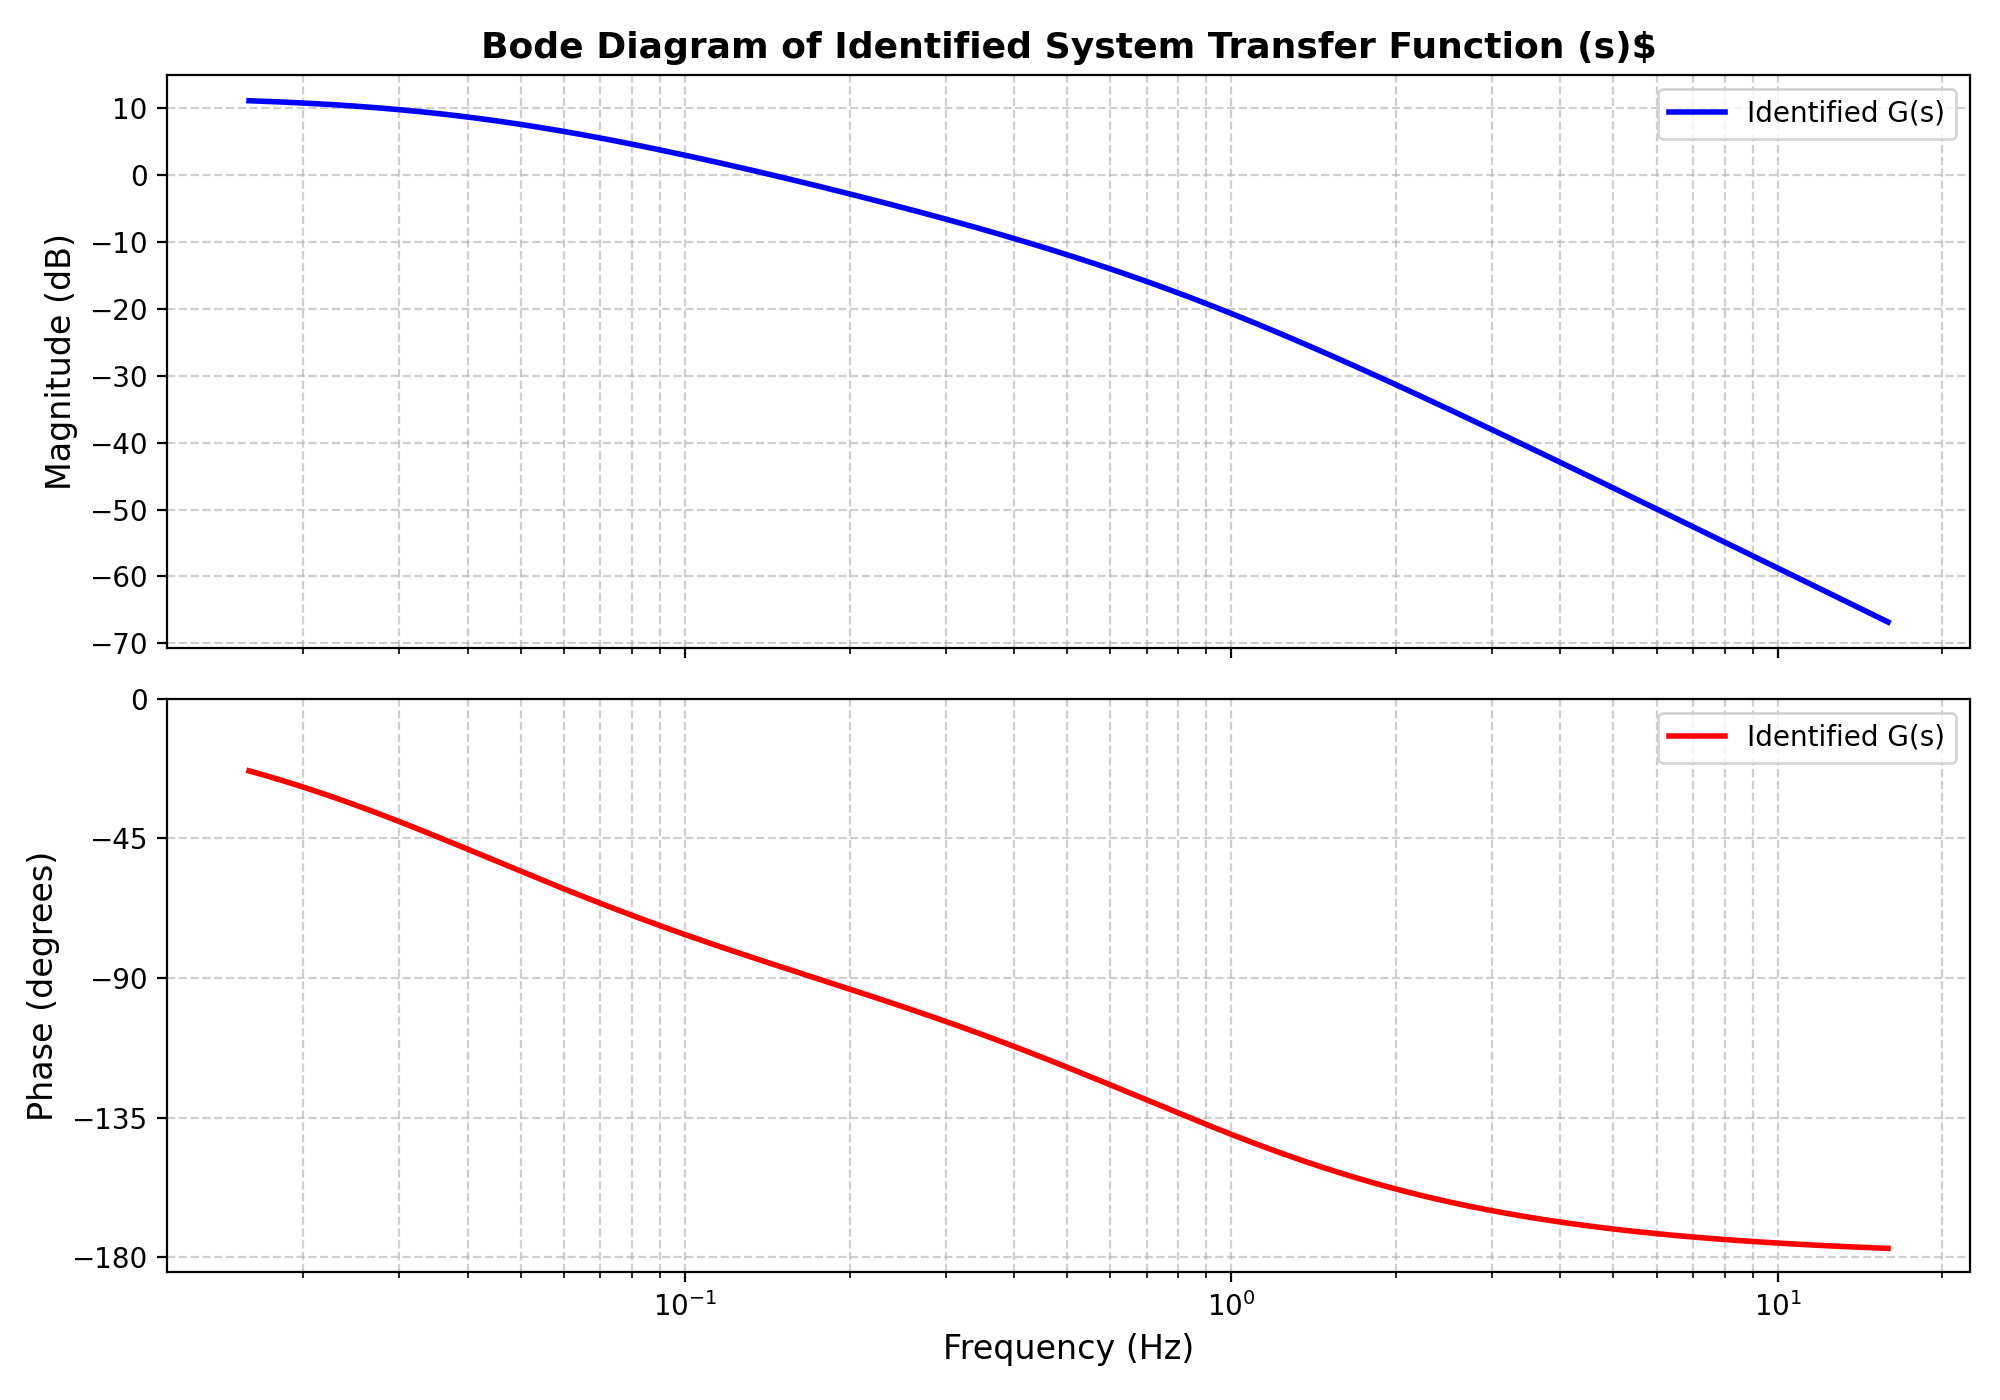
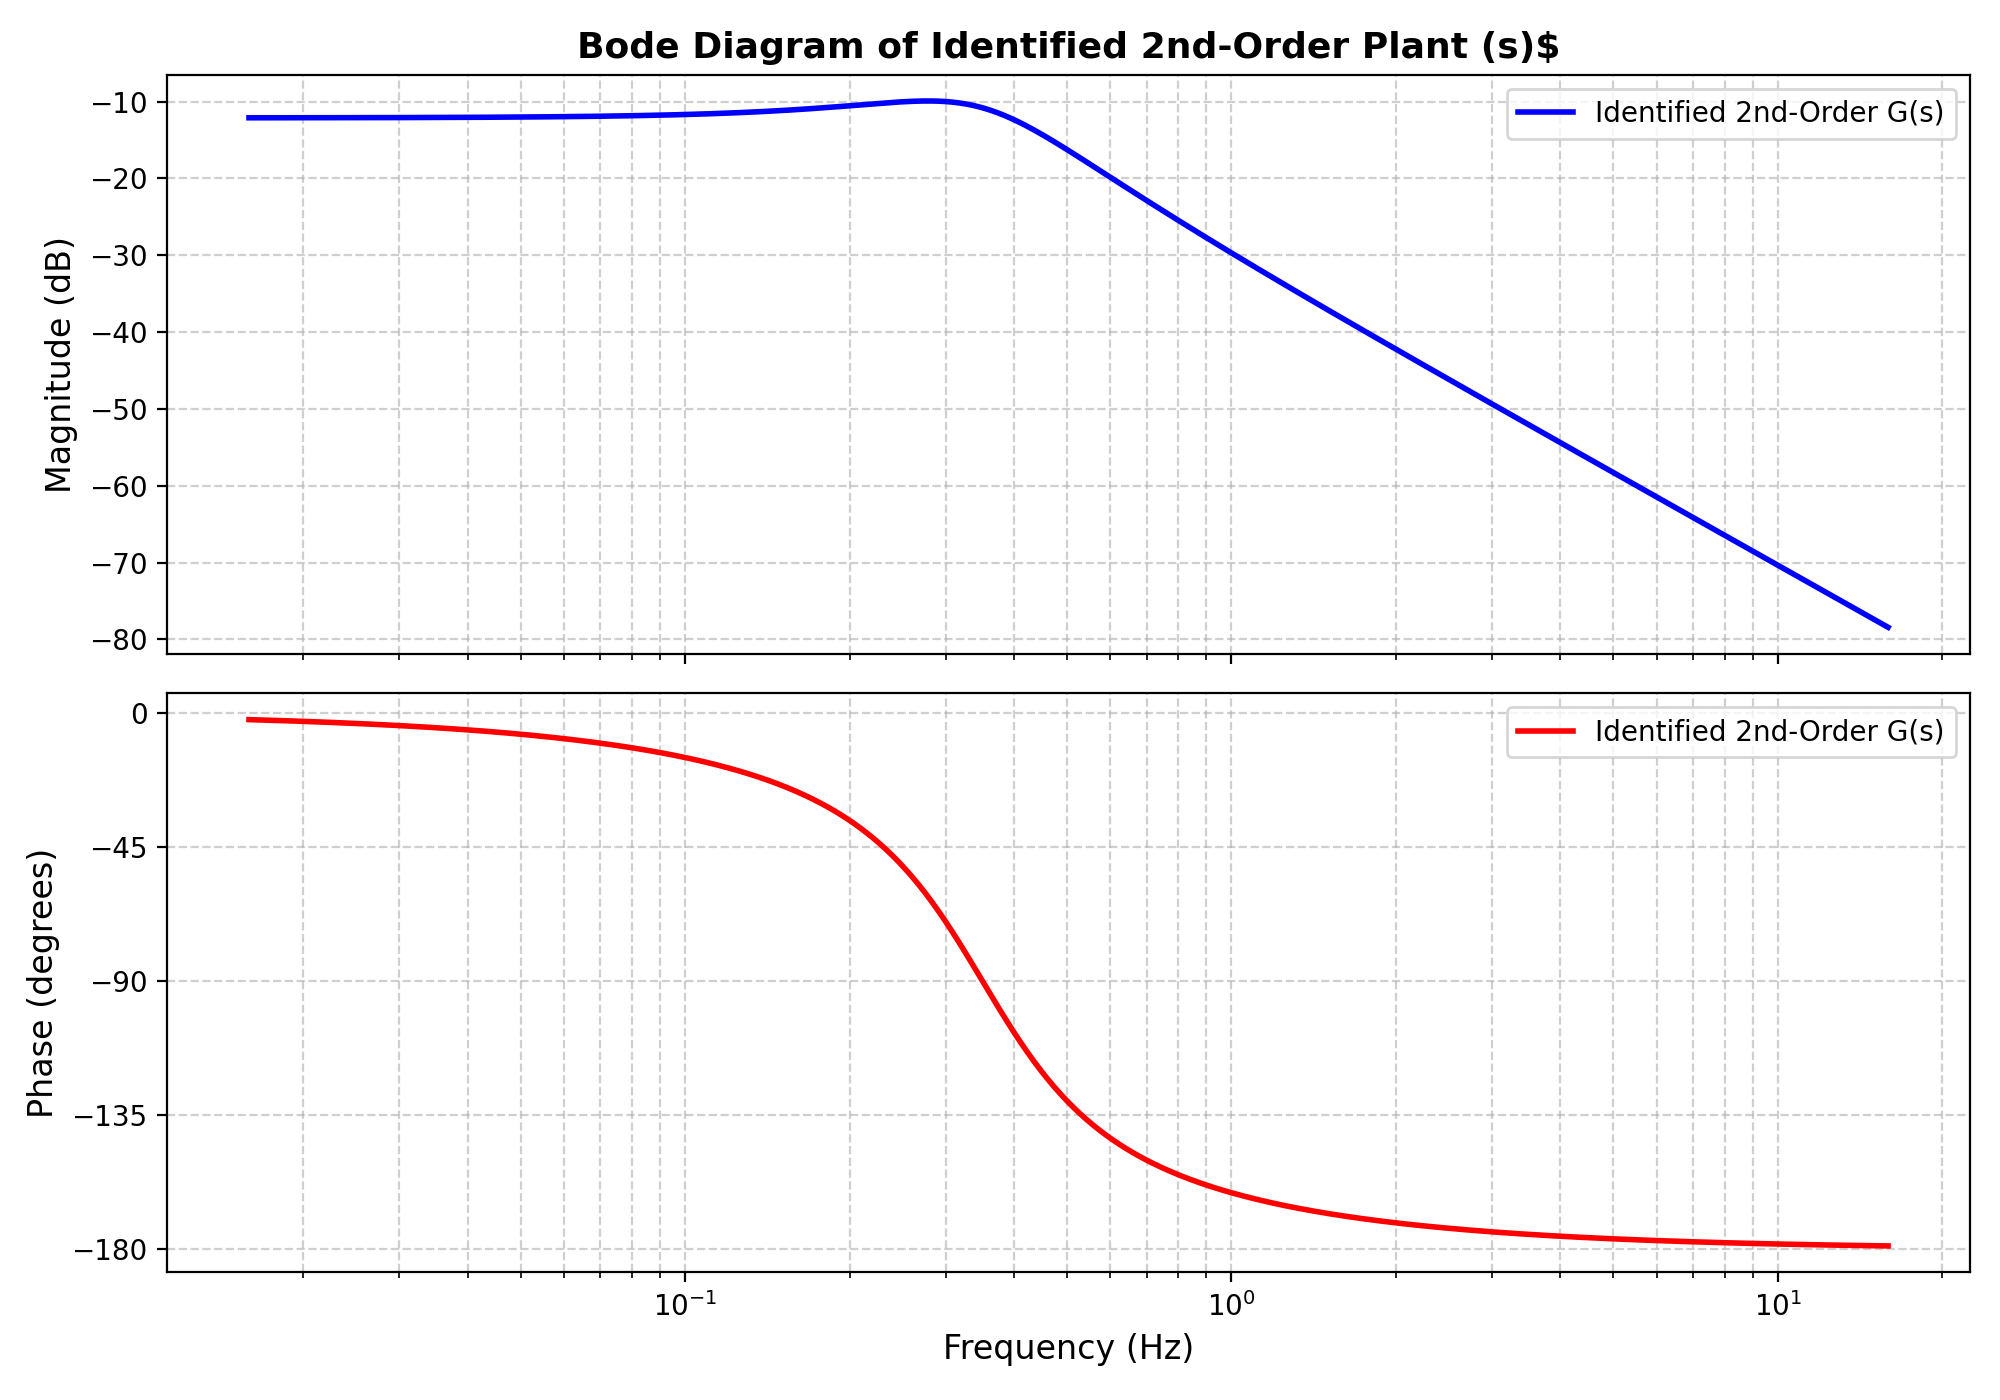
codes for task - 5 fixed

diff --git a/matlab/task5_system_identification.m b/matlab/task5_system_identification.m
@@ -73,9 +73,15 @@ for i = 1:num_runs
     u_res = interp1(t_raw, u_raw, t_grid, 'linear', 'extrap');
     y_res = interp1(t_raw, y_raw, t_grid, 'linear', 'extrap');
     
-    % Detrend: Subtract mean to obtain perturbation variables around equilibrium
+    % Moving Average Offset Removal:
+    % 1. Actuator Input: Center around operating point
     u_detrend = detrend(u_res, 'constant');
-    y_detrend = detrend(y_res, 'constant');
+    
+    % 2. Sensor Output: Subtract moving average baseline (window = 2.0s = 100 samples)
+    % This removes the non-linear downhill drift/offset so the signal oscillates symmetrically about 0.
+    movWindow = round(2.0 / Ts); % 100 samples at 50 Hz
+    y_baseline = movmean(y_res, movWindow);
+    y_detrend  = y_res - y_baseline;
     
     % Store iddata object for MATLAB System Identification Toolbox
     id_datasets{i} = iddata(y_detrend, u_detrend, Ts, 'Name', rid);
@@ -90,19 +96,21 @@ for i = 1:num_runs
     time_data{i}.u_detrend = u_detrend;
     time_data{i}.y_detrend = y_detrend;
     
-    % Plot raw runs
+    % Plot zero-centered runs
     subplot(num_runs, 2, 2*i - 1);
-    plot(t_grid, u_res, 'LineWidth', 1.2);
+    plot(t_grid, u_detrend, 'LineWidth', 1.2, 'Color', [0 0.4470 0.7410]);
+    yline(0, '--', 'Color', [0.5 0.5 0.5]);
     grid on;
-    ylabel(sprintf('%s\nServo (deg)', rid), 'FontWeight', 'bold');
-    if i == 1, title('Chirp Actuator Input u(t)', 'FontSize', 11); end
+    ylabel(sprintf('%s\n\\Delta\\theta (deg)', rid), 'FontWeight', 'bold');
+    if i == 1, title('Centered Actuator Input \Delta u(t)', 'FontSize', 11); end
     if i == num_runs, xlabel('Time (s)'); end
     
     subplot(num_runs, 2, 2*i);
-    plot(t_grid, y_res, 'LineWidth', 1.2, 'Color', [0.85 0.33 0.1]);
+    plot(t_grid, y_detrend, 'LineWidth', 1.2, 'Color', [0.85 0.33 0.1]);
+    yline(0, '--', 'Color', [0.5 0.5 0.5]);
     grid on;
-    ylabel('Distance (cm)', 'FontWeight', 'bold');
-    if i == 1, title('Ultrasonic Sensor Output y(t)', 'FontSize', 11); end
+    ylabel('\Delta d (cm)', 'FontWeight', 'bold');
+    if i == 1, title('Moving-Average Centered Distance \Delta y(t)', 'FontSize', 11); end
     if i == num_runs, xlabel('Time (s)'); end
 end
 
@@ -117,11 +125,15 @@ merged_data = merge(id_datasets{1}, id_datasets{2}, id_datasets{3}, id_datasets{
 % (position and velocity states), potentially with actuator/sensor lag.
 % Order nx = 2 captures dominant mechanical dynamics.
 nx = 2;
-opt = n4sidOptions('Focus', 'simulation', 'DisturbanceModel', 'none', 'Display', 'on');
+opt = n4sidOptions('Focus', 'simulation', 'Display', 'on');
 sys_d = n4sid(merged_data, nx, opt);
 
 % Convert discrete-time model to continuous-time
-sys_c = d2c(sys_d, 'zoh');
+try
+    sys_c = d2c(sys_d, 'zoh');
+catch
+    sys_c = d2c(sys_d, 'tustin');
+end
 
 % Extract Continuous-time Transfer Function G(s)
 [num, den] = tfdata(sys_c, 'v');
